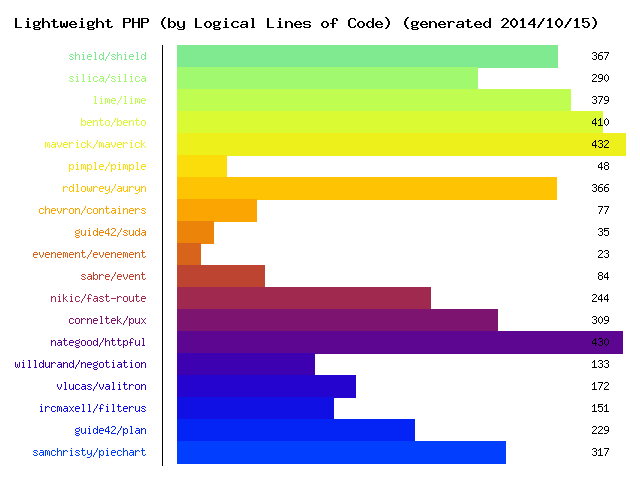
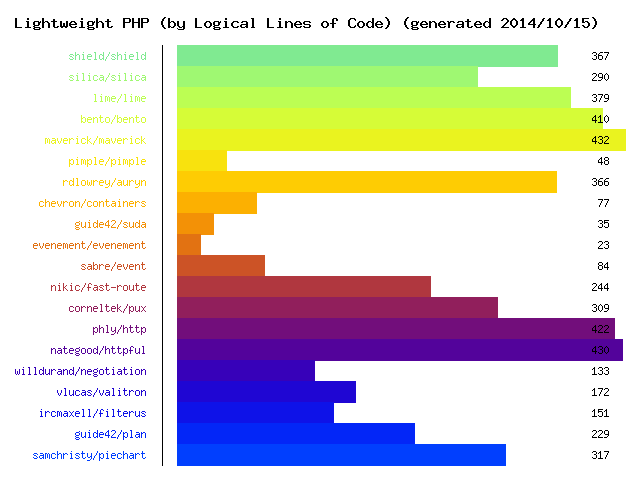
Add phly/http

diff --git a/README.md b/README.md
@@ -42,6 +42,7 @@ List of lightweight PHP libraries.
 
 ## HTTP
 
+* [phly/http](https://github.com/phly/http) - PSR HTTP message implementations
 * [Httpful](https://github.com/nategood/httpful) - A chainable, REST friendly, PHP HTTP client
 * [Negotiation](https://github.com/willdurand/Negotiation) - Content negotiation tools for PHP
 
